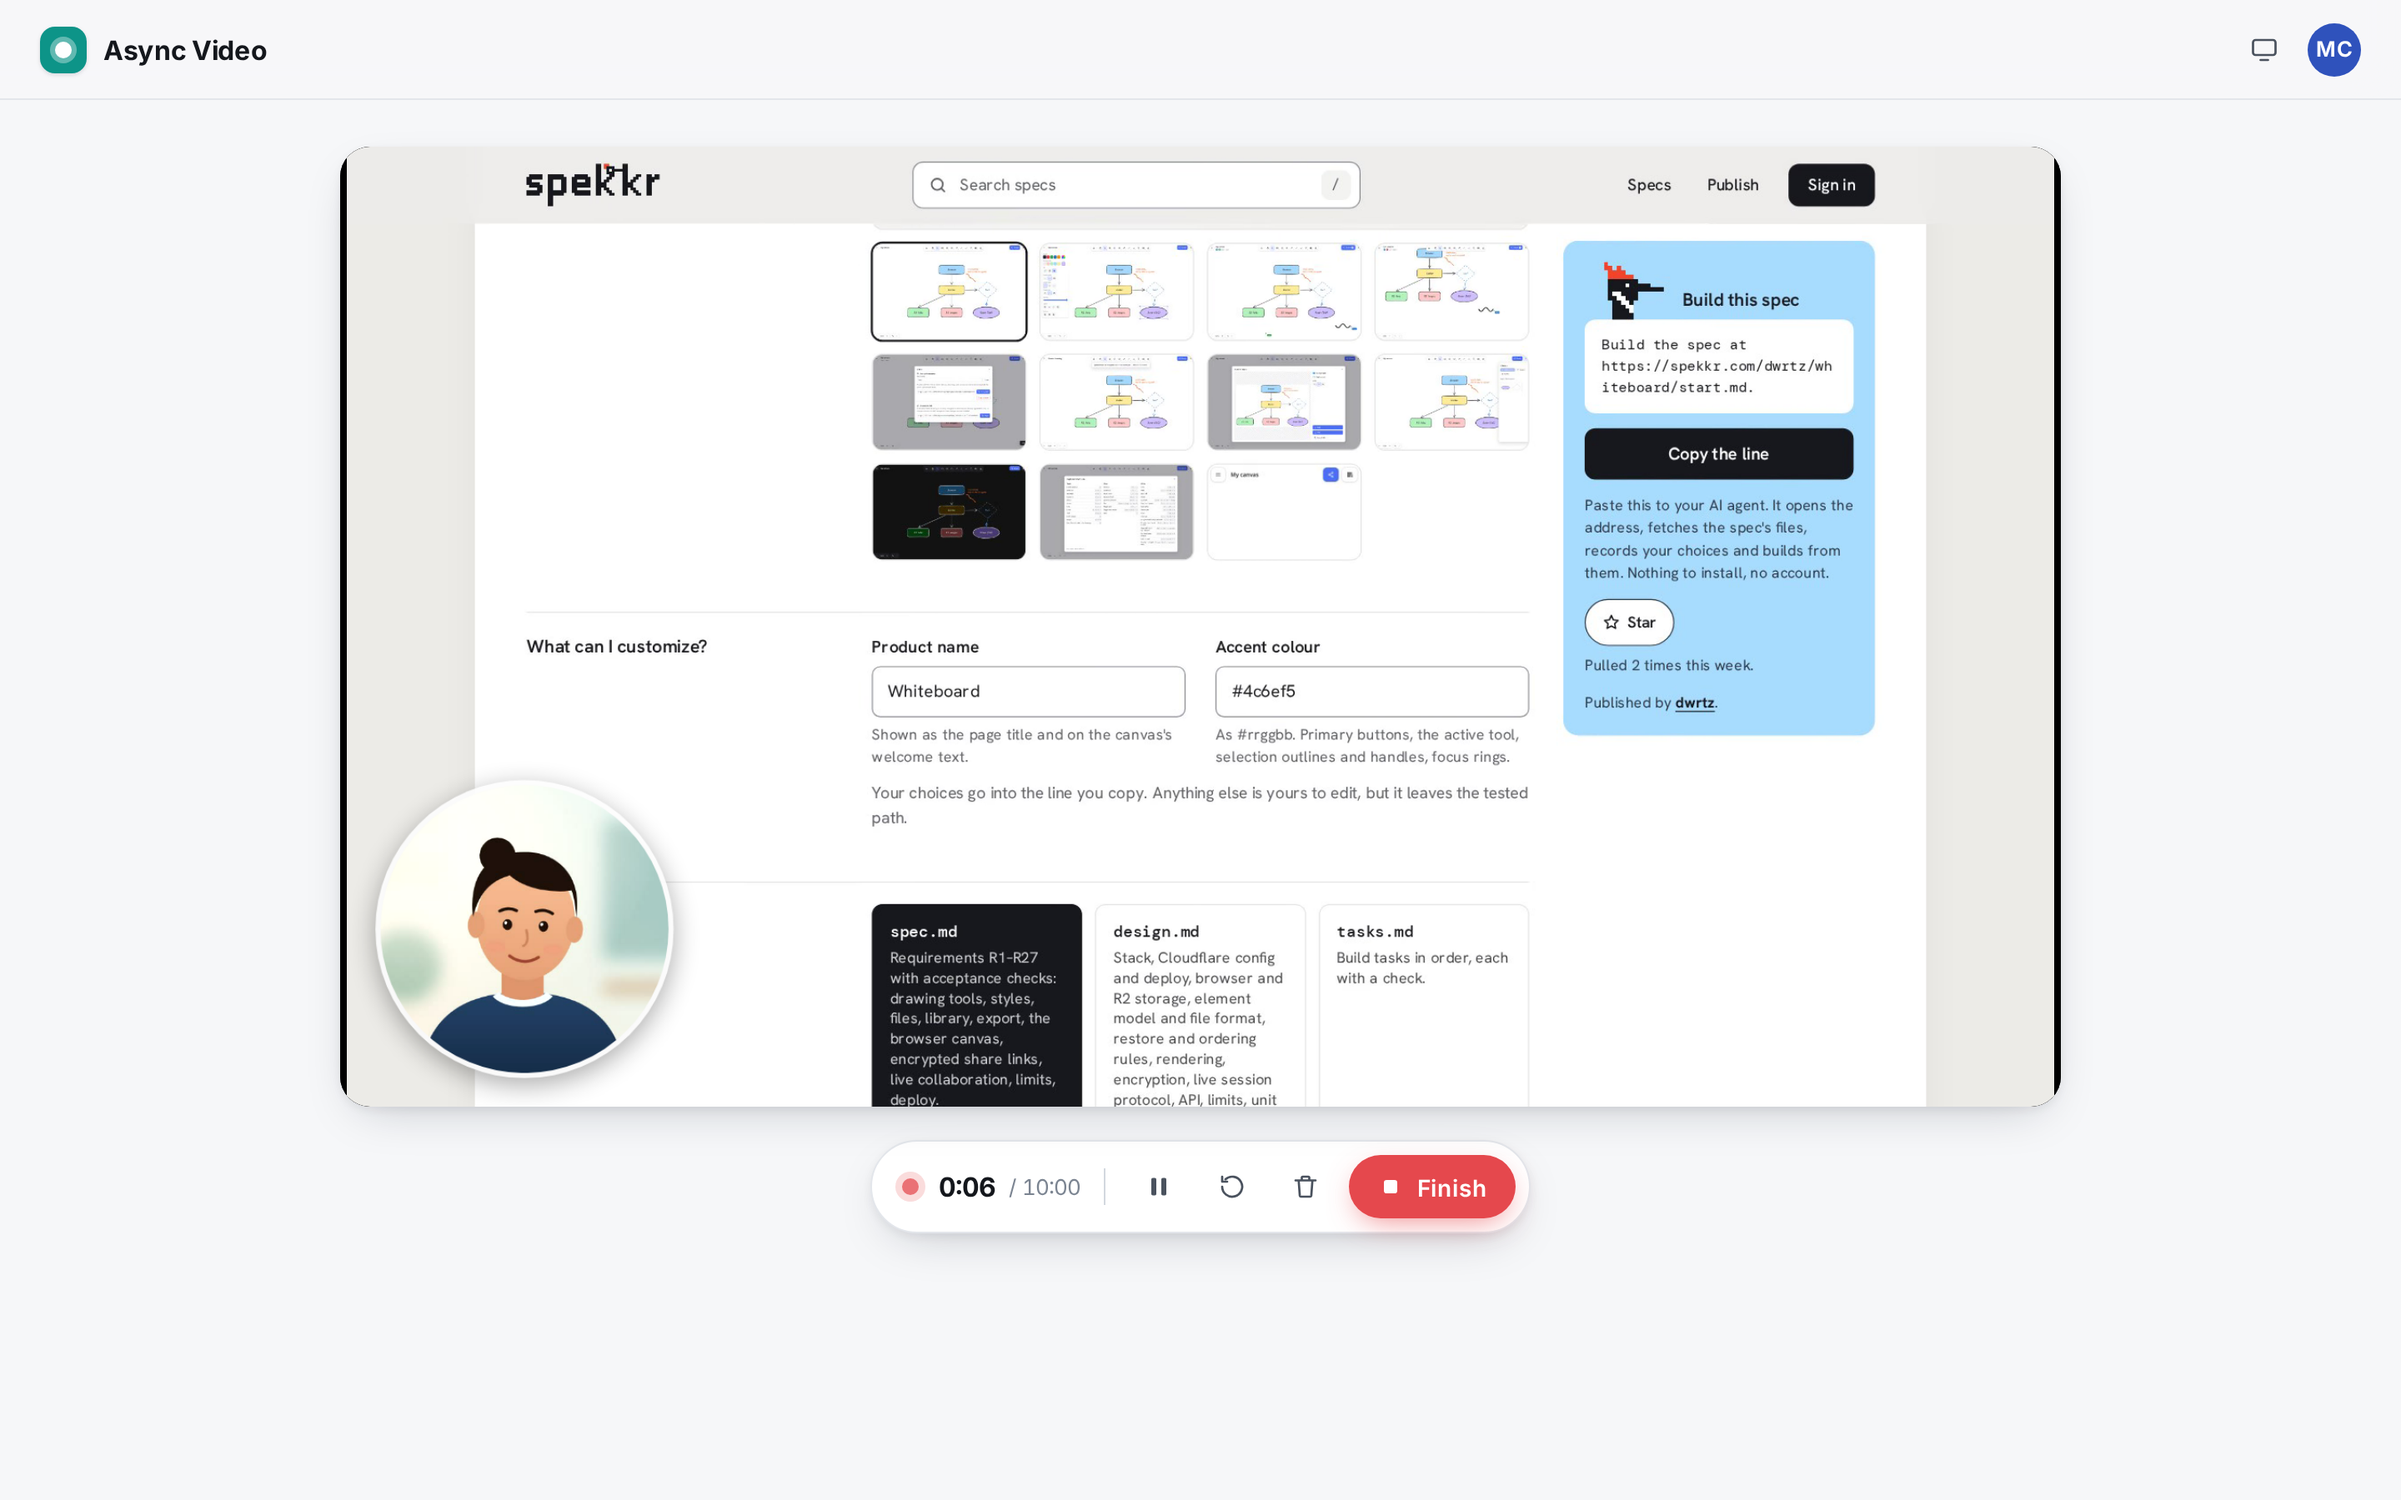
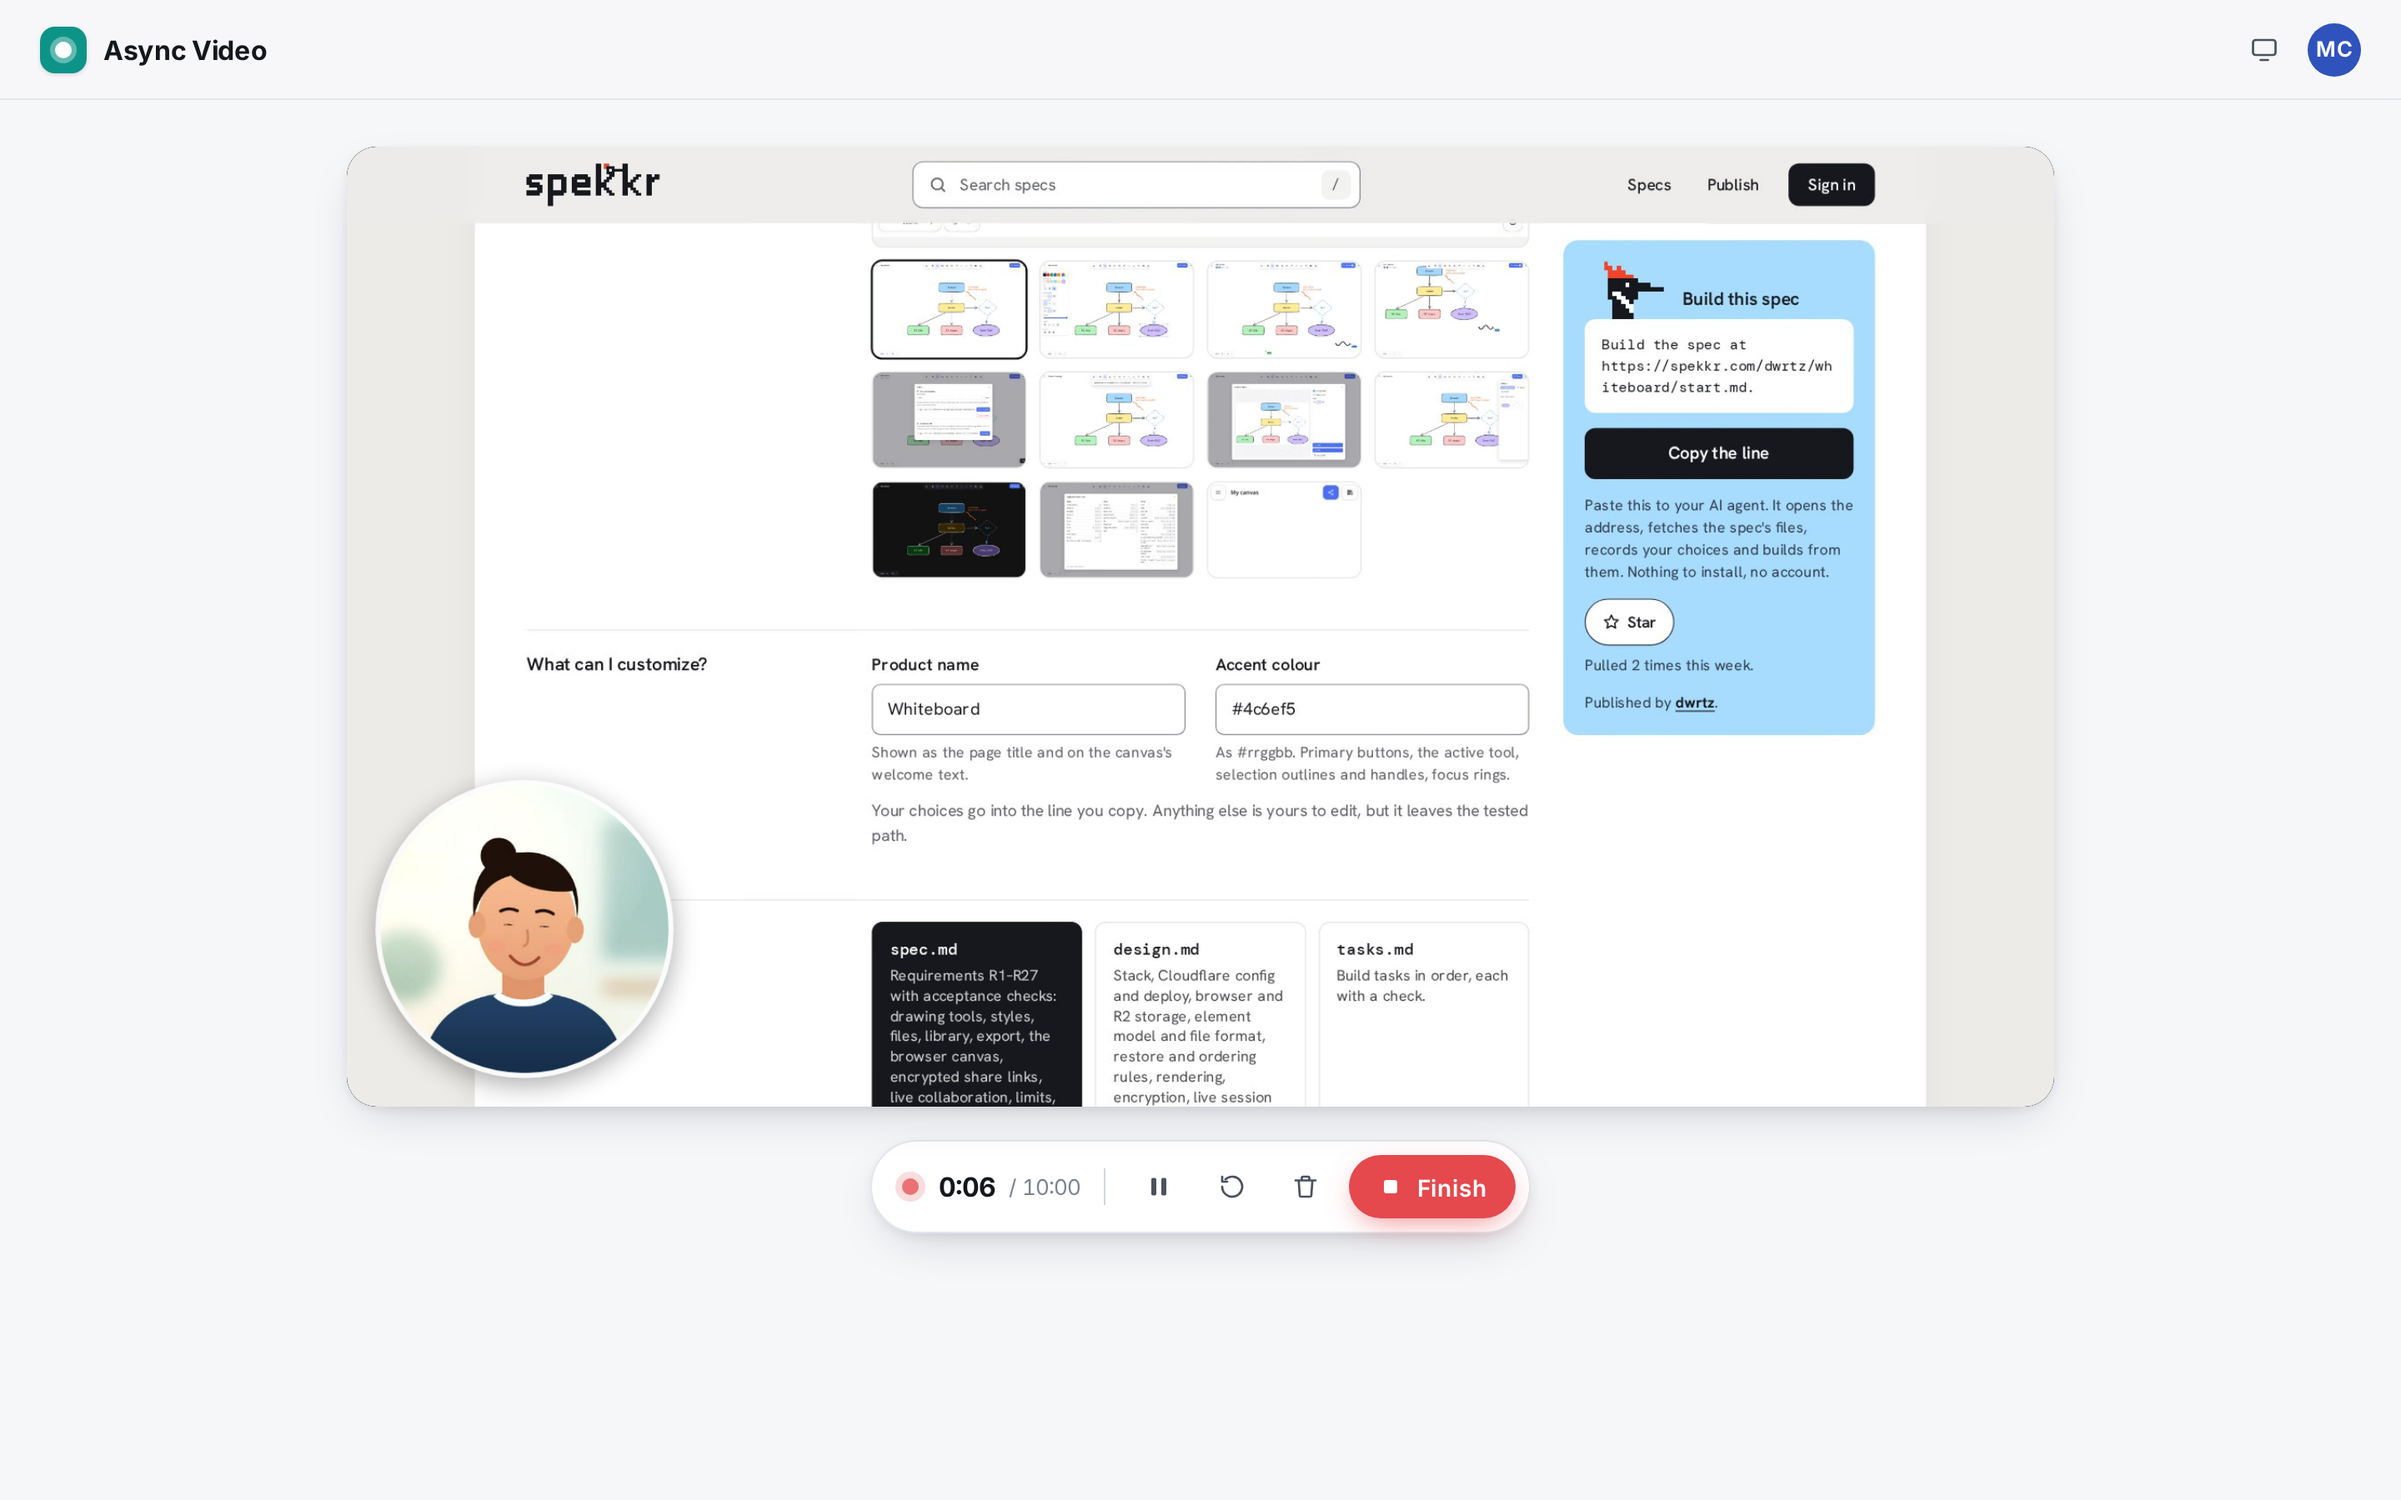
README: review editor, formats that play on phones, WebKit tests

diff --git a/README.md b/README.md
@@ -16,13 +16,23 @@ Record your screen and camera in the browser, share a link, and get comments and
   - 3-second countdown
   - pause, restart, cancel
   - up to 10 minutes
-- **Upload:** in 5 MB parts straight to R2 (multipart, 3 at a time, retried) with a progress bar. WebM files get a proper duration so they're seekable.
+  - the recorder tab is left out of the screen picker, a shared tab or window is brought to the front, and in Chrome a small always-on-top window (Document Picture-in-Picture) holds Pause and Stop; Alt+Shift+S stops, Alt+Shift+P pauses
+- **Review before saving:** after Stop, the recording stays in your browser until you press Save:
+  - play back only the part you keep
+  - trim the start and end with two handles (so a whole-screen recording doesn't begin and end on the recorder page)
+  - remove one section from the middle
+  - set the title and mute the audio
+  - or discard it and record again
+- **Formats that play on phones:** recordings are MP4 (H.264) wherever the browser can record it (Chrome, Edge, Safari), otherwise WebM. WebM files get a proper duration and valid sizes so they're seekable, WebM saved by 0.1.0 is repaired as it's served, and a browser that can't play a file shows a notice with a download.
+- **Upload:** in 5 MB parts straight to R2 (multipart, 3 at a time, retried) with a progress bar.
 - **Share page:**
   - player with speeds 0.75×–2.5× (showing the time at each speed), keyboard shortcuts, `?t=` links and chapters on the seek bar
   - timestamped comments, emoji reactions that float over the video and leave markers
   - view counts (once per viewer, never the owner)
-- **Owner tools:** rename, trim (non-destructive), chapters, turn comments or downloads off, download, delete.
-- **Everything else:** library with search, light/dark theme, and a phone layout (phones without screen capture record with the camera).
+- **Owner tools:** rename, trim and remove a section, mute, chapters, turn comments or downloads off, download, delete. Trim, the removed section and mute are applied by the player; the stored file and downloads are the full original (downloads of a muted video are for the owner only).
+- **Everything else:** library with search, light/dark theme, and a phone layout (phones can't share their screen from a browser, so they record with the front camera).
+
+![Review step: trim handles, a removed section, title and mute before saving](docs/review-editor.png)
 
 ![Recorder with the camera bubble](docs/recorder.png)
 
@@ -79,11 +89,13 @@ Local dev needs no Cloudflare account. Recording needs a secure context, so use 
 ```sh
 npm run typecheck
 npm test                          # Vitest unit tests
-npx playwright install chromium
-npm run e2e                       # Playwright: desktop + iPhone 13 + Pixel 7, against wrangler dev
+npx playwright install chromium webkit   # webkit also needs: npx playwright install-deps webkit
+npm run e2e                       # Playwright: desktop + iPhone 13 + Pixel 7 (Chromium) + WebKit iPhone 13, against wrangler dev
 ```
 
 The end-to-end tests use Chromium's fake camera, microphone and screen (`--use-fake-device-for-media-stream`, `--use-fake-ui-for-media-stream`, `--auto-select-desktop-capture-source=Entire screen`), so they make real recordings without hardware.
+
+Not covered by automated tests: Safari's real iOS media stack (Linux WebKit plays media through GStreamer, which is more forgiving), recording in Safari, the browser really moving focus to a shared tab, the floating controls staying above other apps, and the browser's own "Stop sharing" bar (simulated by ending the track).
 
 ## Deploy
 
@@ -91,7 +103,7 @@ The end-to-end tests use Chromium's fake camera, microphone and screen (`--use-f
 2. `npx wrangler d1 create video`, then put the printed id in `wrangler.jsonc` → `d1_databases[0].database_id`.
 3. `npx wrangler r2 bucket create video-media`
 4. Set `vars.ALLOWED_EMAILS` to the email(s) that may have accounts.
-5. `npm run deploy` builds the client, applies D1 migrations remotely, and deploys the Worker with its assets.
+5. `npm run deploy` builds the client, applies D1 migrations remotely (including `0002_edits.sql`, which only adds columns), and deploys the Worker with its assets.
 6. Optional: add a custom domain (Workers → `video` → Settings → Domains & Routes), and turn off the `workers.dev` and preview URLs.
 7. Open the site and create your account with the allowlisted email.
 
